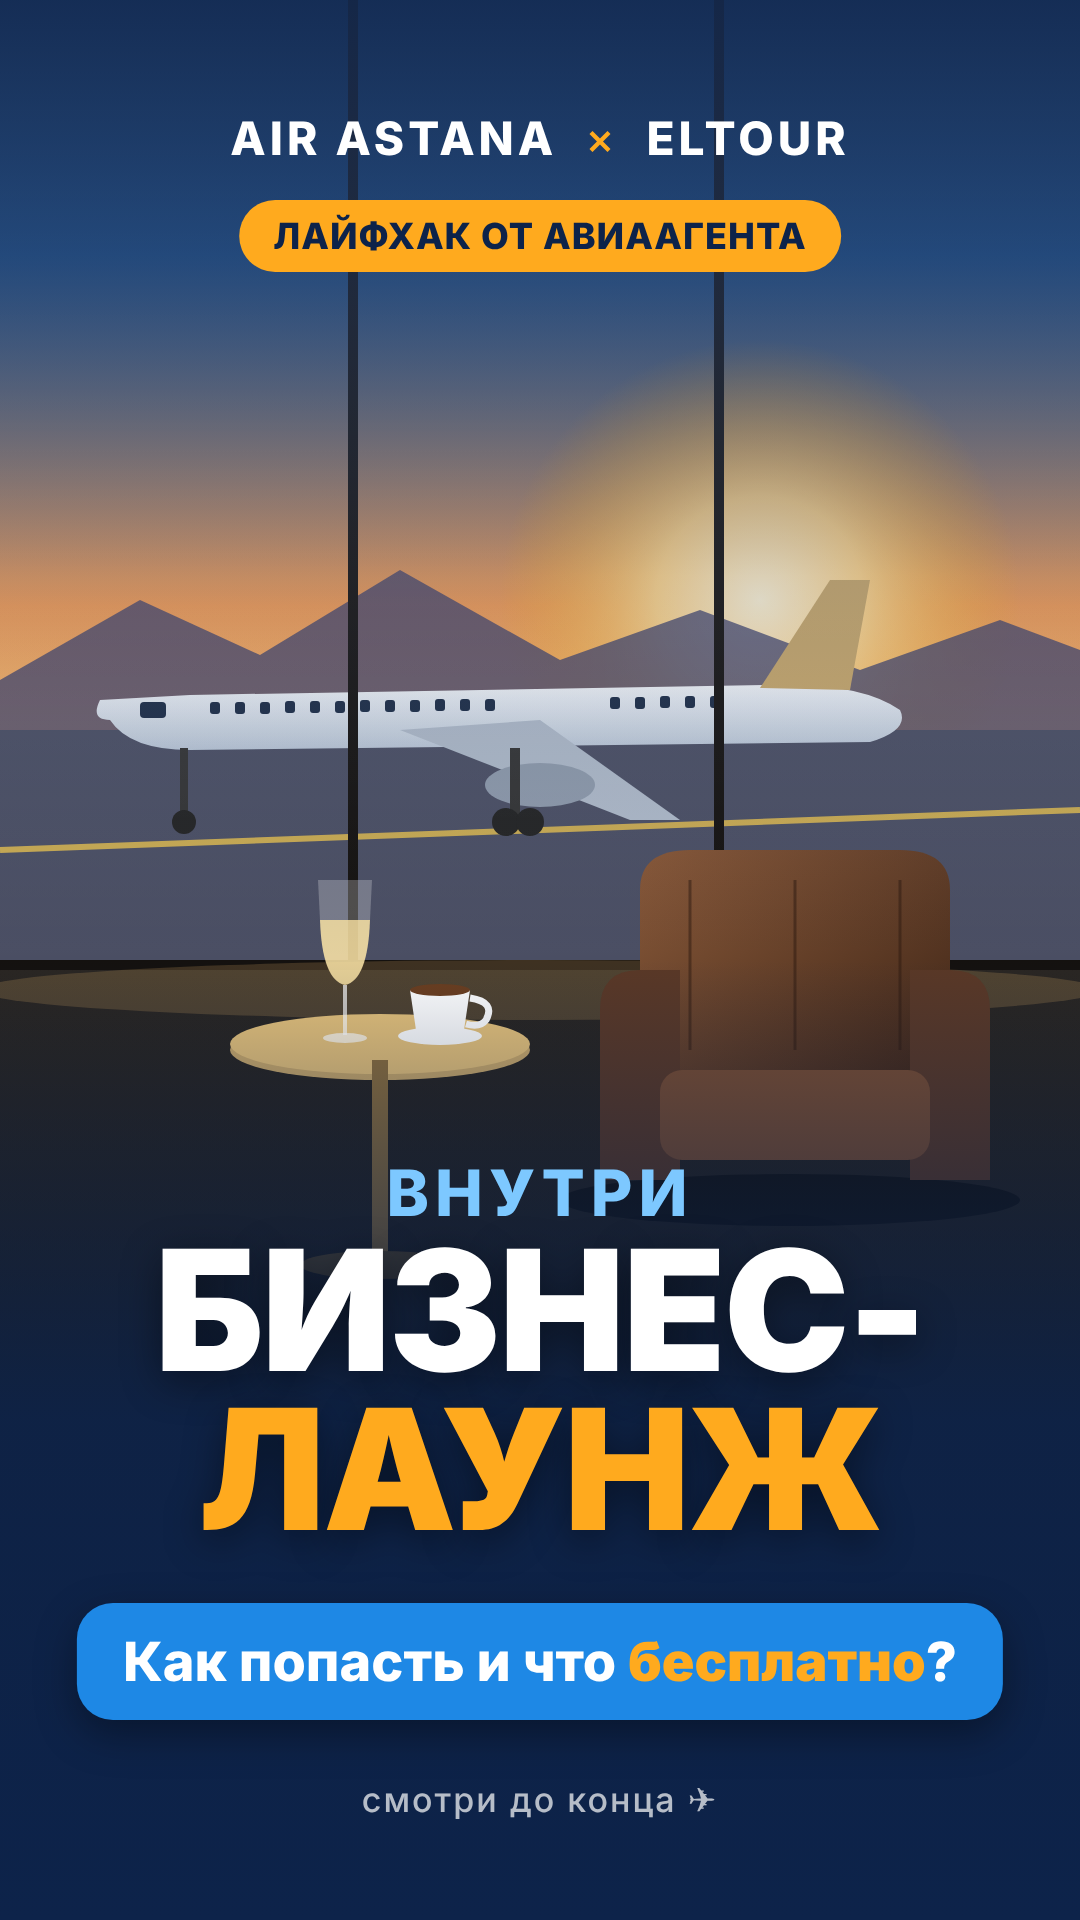
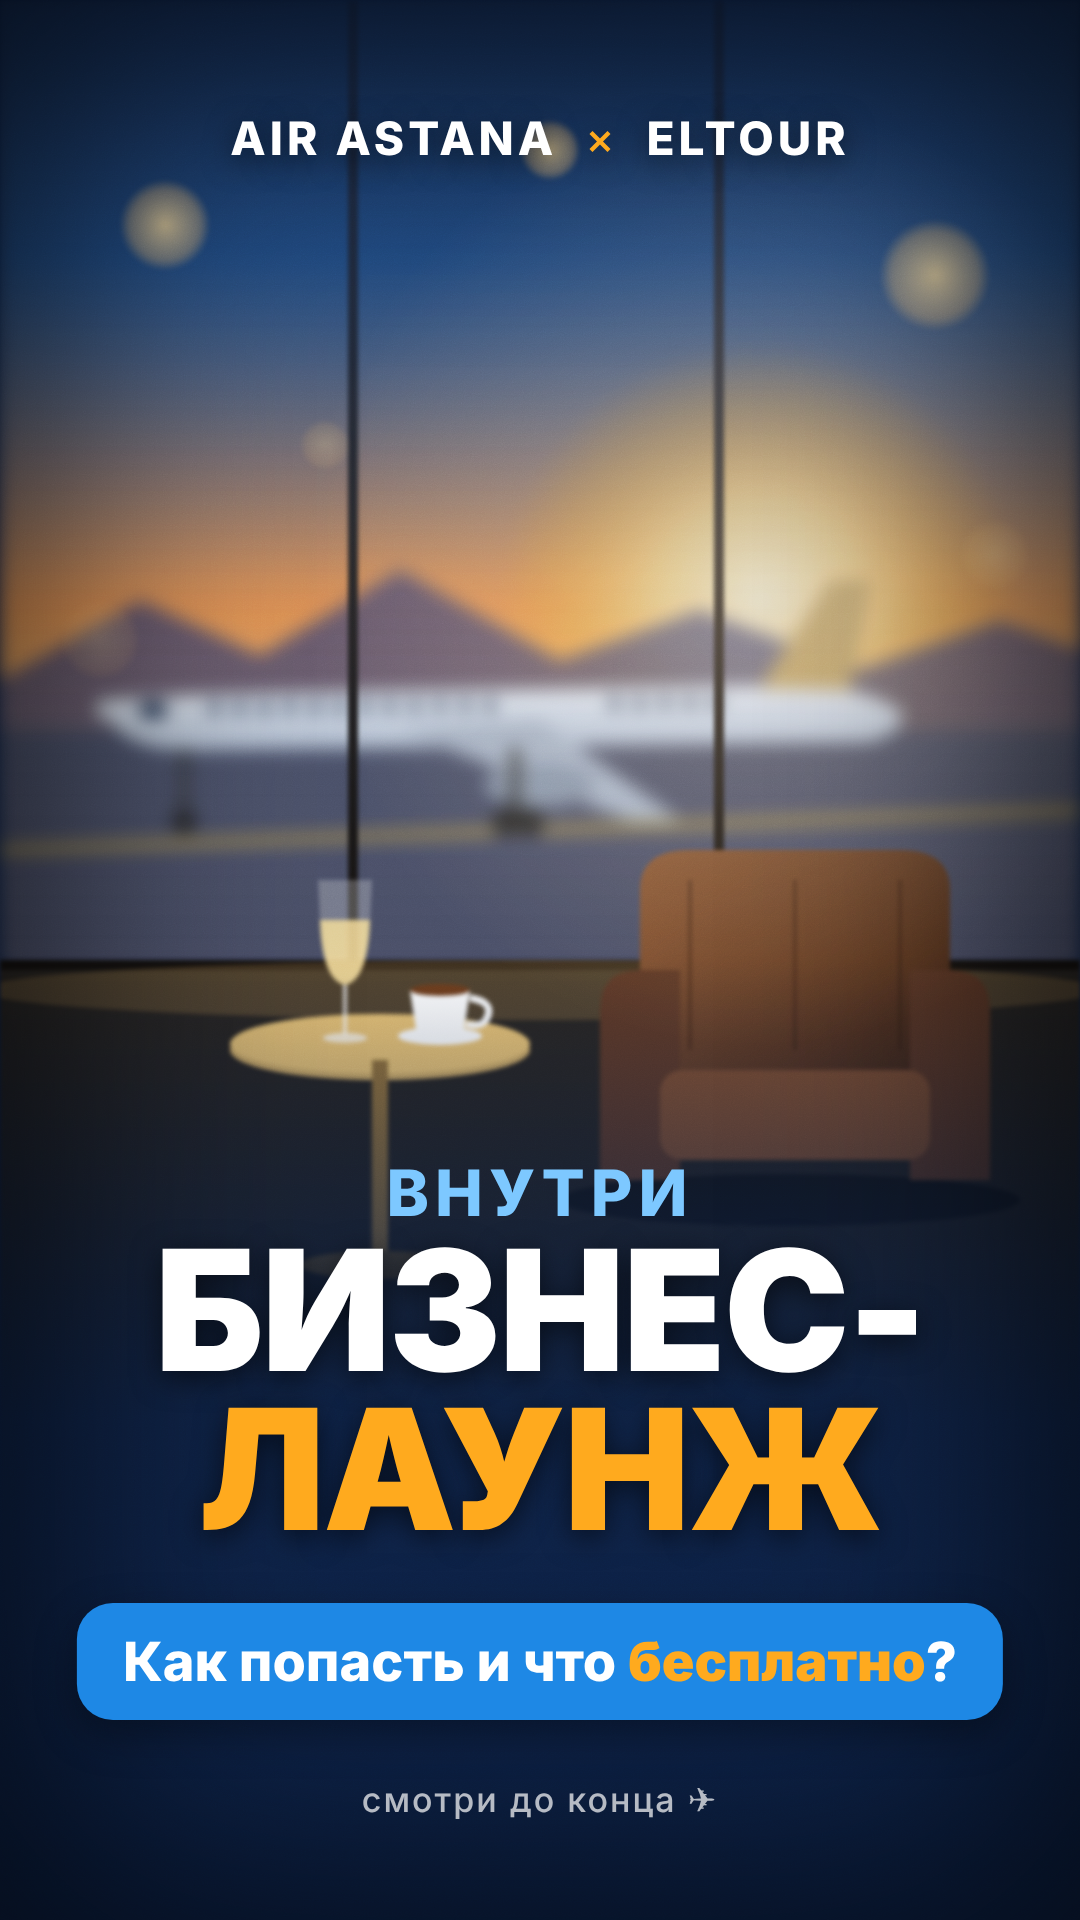
Cover: remove rubric badge, add photo-style depth of field, bokeh, grain
Claude-Session: https://claude.ai/code/session_01PxKTrEiMNXHzvjuDHwsYCG

diff --git a/cover/cover.html b/cover/cover.html
@@ -24,11 +24,16 @@
     font-weight:800;font-size:54px;padding:26px 46px;border-radius:36px;white-space:nowrap;box-shadow:0 14px 40px rgba(0,0,0,.35)}
   .hook b{color:var(--orange);font-weight:900}
   .safe{position:absolute;bottom:100px;left:0;right:0;text-align:center;color:rgba(255,255,255,.7);font-weight:500;font-size:34px;letter-spacing:2px}
+  .bokeh i{position:absolute;border-radius:50%;background:radial-gradient(circle,rgba(255,220,150,.75) 0%,rgba(255,200,120,.35) 55%,rgba(255,200,120,0) 72%);filter:blur(2px)}
+  .glare{position:absolute;inset:0;background:radial-gradient(ellipse 60% 35% at 70% 30%,rgba(255,210,150,.28),transparent 70%);mix-blend-mode:screen}
+  .grain{position:absolute;inset:0;opacity:.13;mix-blend-mode:overlay}
+  .vignette{position:absolute;inset:0;box-shadow:inset 0 0 260px 60px rgba(0,0,0,.65)}
+  .title .big,.partners{text-shadow:0 6px 30px rgba(0,0,0,.6)}
 </style></head>
 <body>
 <div class="scene">
   <!-- Иллюстрация лаунжа: панорамное окно, самолёт у гейта на закате, кресло, столик с бокалом -->
-  <svg width="1080" height="1920" viewBox="0 0 1080 1920" style="position:absolute;inset:0" id="illu">
+  <svg width="1080" height="1920" viewBox="0 0 1080 1920" style="position:absolute;inset:0;filter:blur(9px) saturate(1.15)" id="illu">
     <defs>
       <linearGradient id="sky" x1="0" y1="0" x2="0" y2="1">
         <stop offset="0" stop-color="#0D234A"/><stop offset=".45" stop-color="#1E5FA8"/>
@@ -66,7 +71,8 @@
       <rect x="110" y="178" width="8" height="70" fill="#333"/><circle cx="114" cy="252" r="12" fill="#222"/>
       <rect x="440" y="178" width="10" height="70" fill="#333"/><circle cx="436" cy="252" r="14" fill="#222"/><circle cx="460" cy="252" r="14" fill="#222"/>
     </g>
-    <!-- рама панорамного окна -->
+    </g></svg>
+  <svg width="1080" height="1920" viewBox="0 0 1080 1920" style="position:absolute;inset:0;filter:blur(2px) saturate(1.1)" id="illu2"><g transform="translate(0 -330)"><!-- рама панорамного окна -->
     <g fill="#14110F">
       
       <rect x="348" y="0" width="10" height="1300"/><rect x="714" y="0" width="10" height="1300"/>
@@ -108,10 +114,17 @@
   </svg>
   <div class="photo" id="photo"></div>
   <div class="shade"></div>
+  <div class="bokeh">
+    <i style="left:120px;top:180px;width:90px;height:90px"></i><i style="left:520px;top:120px;width:60px;height:60px"></i>
+    <i style="left:880px;top:220px;width:110px;height:110px"></i><i style="left:300px;top:420px;width:50px;height:50px;opacity:.35"></i>
+    <i style="left:960px;top:520px;width:70px;height:70px;opacity:.4"></i><i style="left:60px;top:600px;width:80px;height:80px;opacity:.3"></i>
+  </div>
+  <div class="glare"></div>
+  <svg class="grain" width="1080" height="1920"><filter id="n"><feTurbulence type="fractalNoise" baseFrequency=".9" numOctaves="3" stitchTiles="stitch"/><feColorMatrix type="saturate" values="0"/></filter><rect width="100%" height="100%" filter="url(#n)"/></svg>
+  <div class="vignette"></div>
 </div>
 
 <div class="partners">AIR ASTANA <span class="x">×</span> ELTOUR</div>
-<div class="rubric">ЛАЙФХАК ОТ АВИААГЕНТА</div>
 <div class="title">
   <div class="small">ВНУТРИ</div>
   <div class="big">БИЗНЕС-<br><span>ЛАУНЖ</span></div>
@@ -122,6 +135,6 @@
 <script>
   // ?photo=путь — подставить реальное фото лаунжа вместо иллюстрации
   const p = new URLSearchParams(location.search).get('photo');
-  if (p) { document.getElementById('photo').style.backgroundImage = `url("${p}")`; document.getElementById('illu').style.display='none'; }
+  if (p) { document.getElementById('photo').style.backgroundImage = `url("${p}")`; document.getElementById('illu').style.display='none';document.getElementById('illu2').style.display='none'; }
 </script>
 </body></html>
